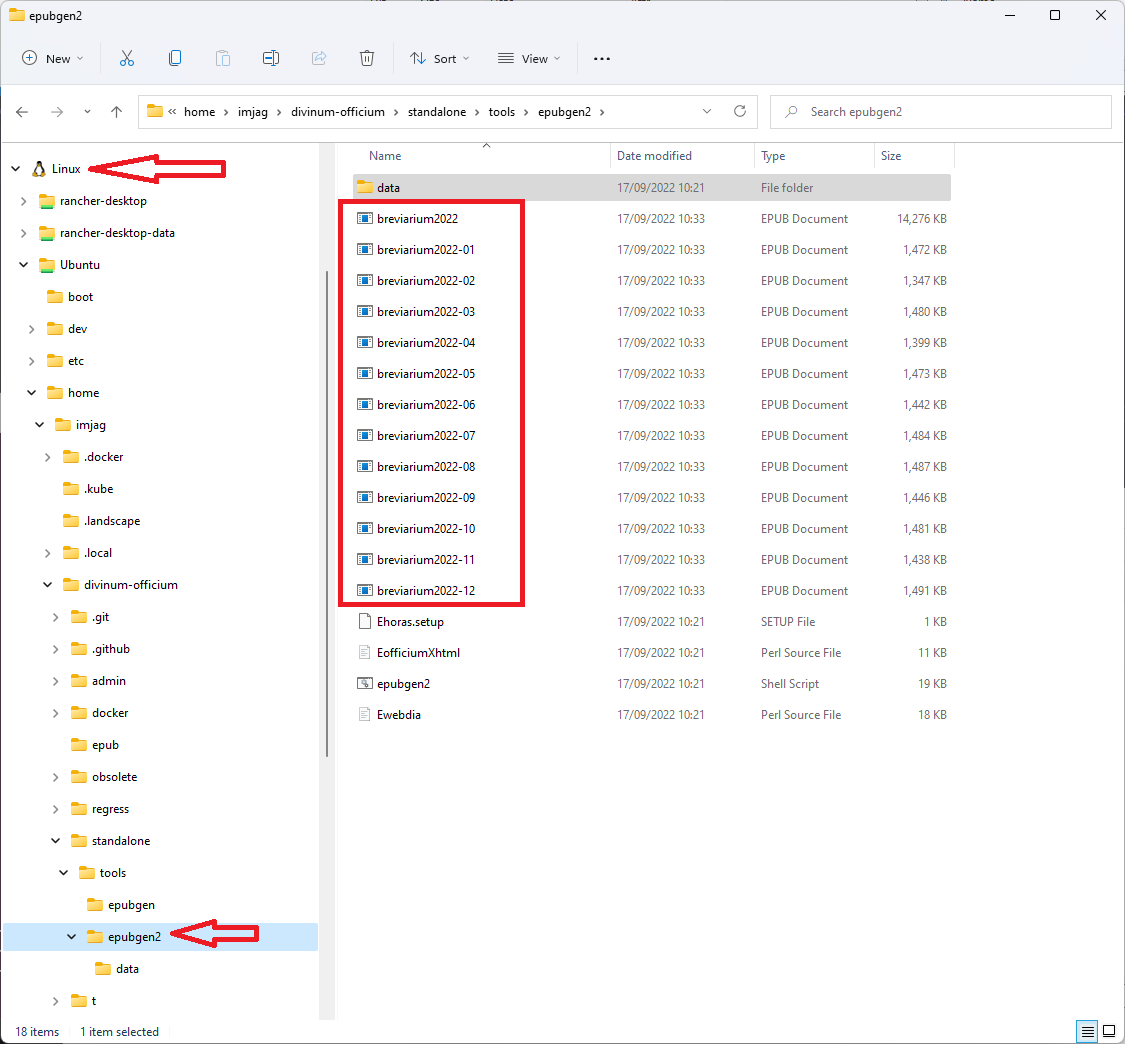
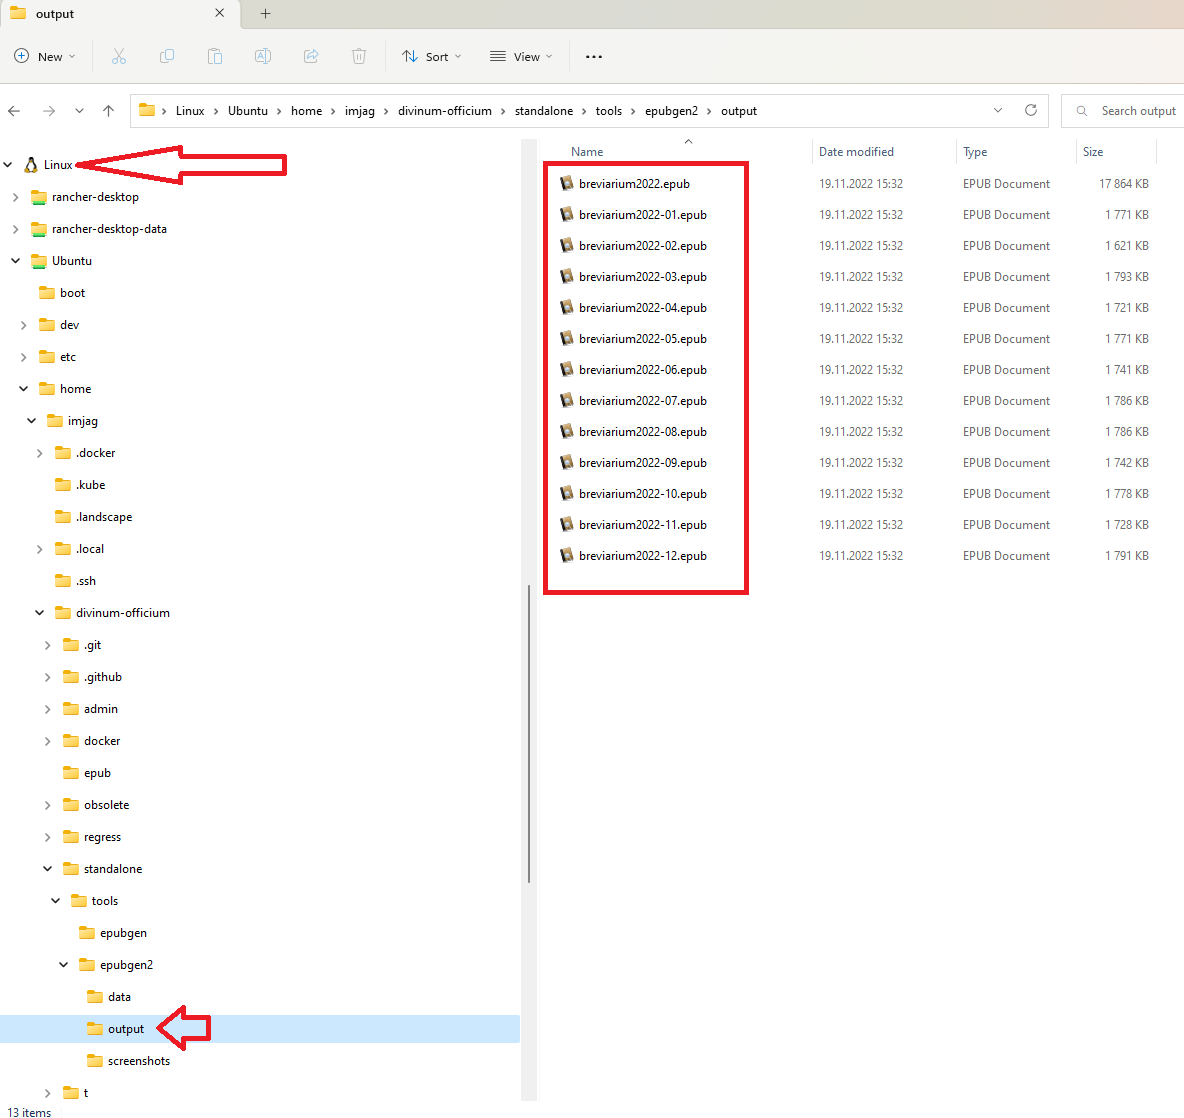
generator: tolerate win newlines, change default output dir

diff --git a/standalone/tools/epubgen2/README.md b/standalone/tools/epubgen2/README.md
@@ -14,7 +14,7 @@ Using docker (easier)
 
    `./epubgen2.sh`
 
-You can find the resulting files in `the standalone\tools\epubgen2` folder.
+You can find the resulting files in the `standalone\tools\epubgen2\output` folder.
 
 Without docker
 --------------
